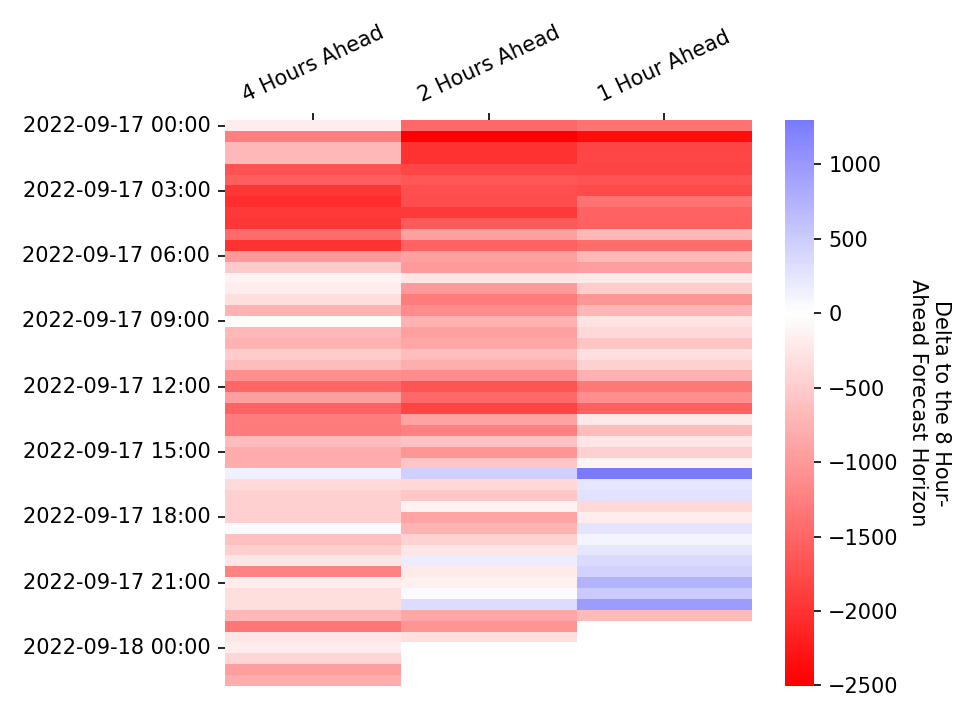
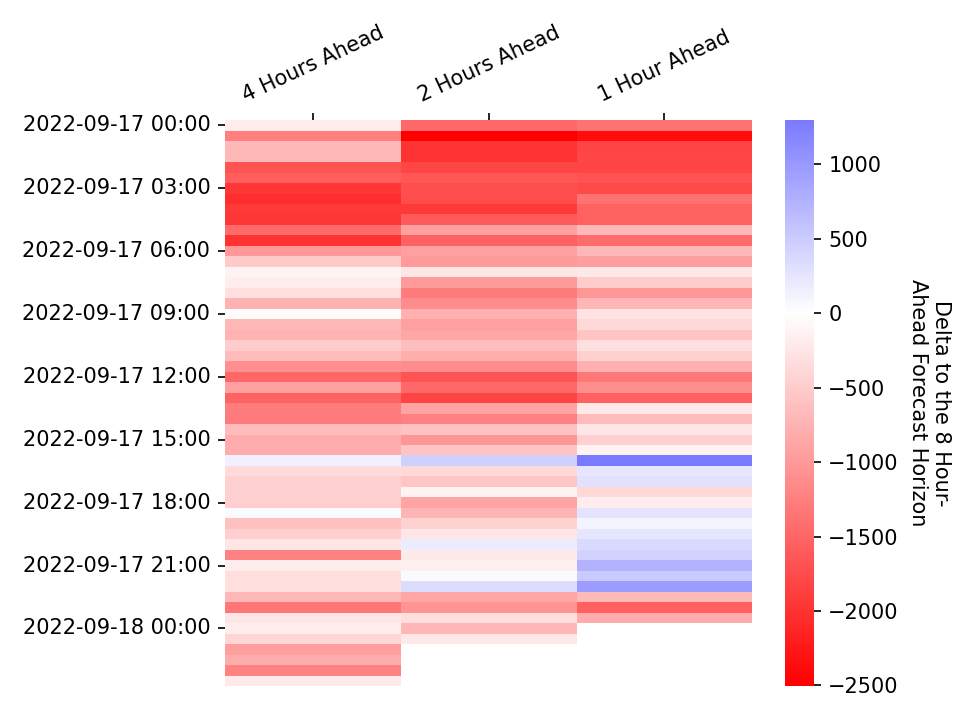
Apply automatic changes

Changed region(s): [[0.0, 0.275, 0.7812, 0.9778], [0.0, 0.2444, 0.2188, 0.275], [0.0312, 0.1528, 0.2188, 0.1833]]

diff --git a/docs/js/map.js b/docs/js/map.js
@@ -144,7 +144,7 @@ document.addEventListener("DOMContentLoaded", function() {
                 follow: 1
             });
             mymap.addControl(sliderControl);
-            sliderControl.startSlider(333);
+            sliderControl.startSlider(334);
         });
     });
 });

diff --git a/docs/visualisations.md b/docs/visualisations.md
@@ -60,7 +60,7 @@ In each settlement period the system operator publishes the de-rated margin fore
 * At 1200 hours on each calendar day for all Settlement Periods for which Gate Closure has not yet passed and which occur within the current Operational Day or the following Operational Day; and
 * At eight, four, two and one hour(s) prior to the beginning of the Settlement Period to which the De-Rated Margin Forecast relates.
 
-These figures will be updated on an hourly basis, the last update was at: 2022-09-17 21:10
+These figures will be updated on an hourly basis, the last update was at: 2022-09-17 21:40
 
 <br>
 
@@ -83,7 +83,7 @@ The following heatmap shows how the more recent de-rated margin forecasts deviat
 
 ### Power Output Map
 
-Last Updated: 2022-09-17 21:10
+Last Updated: 2022-09-17 21:40
 
 This map shows the power output of individual plants connected to the transmission grid as stated in their most recent Physical Notifications. This data can be retrieved through the *PHYBMDATA* BMRS stream, the out-turn data can be viewed one week later through the *B1610* stream. The scrollbar at the top of the map can be used to view how the generation sources have changed their output over the last week, the layer control can be used to toggle on/off the transmission network, and the plants themselves can be clicked to reveal additional information. The plant location data used in this map has been taking from a sister project, [the Power Station Dictionary](https://osuked.github.io/Power-Station-Dictionary/), which aims to link between data about individual power plants.
 
